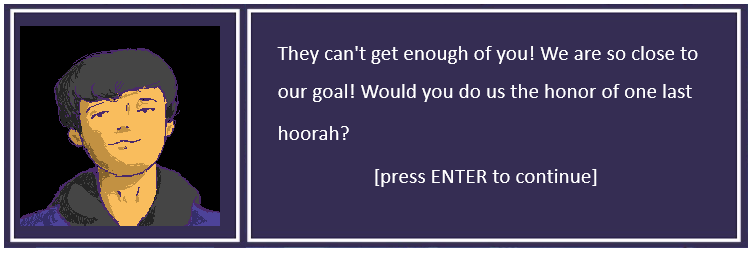
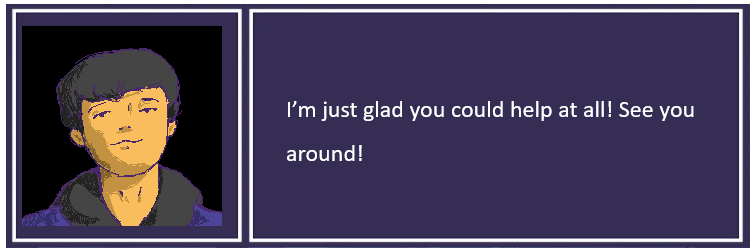
runningdialogue

diff --git a/dialoge.js b/dialoge.js
@@ -3,6 +3,7 @@ let imgCounter = 1;
 function firstDialogue() {
    /*  debugger; */
         if ( imgCounter >5) {
+            debugger;
             context.clearRect(25, 313,450, 147);
             return
         }
@@ -17,24 +18,22 @@ function firstDialogue() {
 }
 
 function secondDialogue() {
-    imgCounter = 6;
     console.log('inside dialogue 2');
-    if ( imgCounter >9) {
+    if ( imgCounter > 10) {
         context.clearRect(25, 313,450, 147);
         return
     }
     else {
         const image = new Image();
-        image.src = `/Dialogues/D${imgCounter}.PNG`
-        image.addEventListener("load", () => {
-            context.drawImage(image,25,313,450,147);
-        })
+            image.src = `/Dialogues/D${imgCounter}.PNG`
+            image.addEventListener("load", () => {
+                context.drawImage(image,25,313,450,147);
+            })
     }
 }
 
 function thirdDialogue() {
-    imgCounter =10;
-    if ( imgCounter >13) {
+    if ( imgCounter >15) {
         context.clearRect(25, 313,450, 147);
         return
     }
@@ -53,15 +52,13 @@ document.addEventListener(`keydown`, (e) => {
     
     if (e.key == "Enter") {
         imgCounter ++;
-        firstDialogue(imgCounter);
-    }
-    else if(e.key.toLowerCase() == "y") {
-        imgCounter ++;
-        firstDialogue(imgCounter);
-    }
-    else if (e.key.toLowerCase() == "n"){
-        imgCounter +=2;
-        firstDialogue(imgCounter);
+        if (imgCounter <= 6 && isFirstDialog) {
+            firstDialogue(imgCounter);
+        } else if (imgCounter >= 7 && imgCounter < 11 && isSecondDialog) {
+            secondDialogue(imgCounter);
+        } else if (imgCounter >=12 && imgCounter < 16 && isThirdDialog) {
+            thirdDialogue(imgCounter);
+        }
     }
 }
 )

diff --git a/game.js b/game.js
@@ -29,6 +29,9 @@ const game = {
 
 const girl = new Girl(50,400,50,100);
 let talking = 0;
+let isFirstDialog = false;
+let isSecondDialog = false;
+let isThirdDialog = false;
 
 
 document.addEventListener(`keydown`, (e)=> {
@@ -119,19 +122,26 @@ document.addEventListener(`keydown`, (e)=> {
     if (e.key == " " && boy.contact(girl)) {
         switch(talking) {
             case 0: 
+                isFirstDialog = true;
                 firstDialogue();
                 talking ++;
                 
                         break;
             case 1: 
             console.log("second dialogue")
-                secondDialogue();
-                talking ++;
+            isSecondDialog = true;
+            imgCounter++;
+            secondDialogue();
+            context.clearRect(25, 313,450, 147)
+            talking ++;
                 
                
                         break;
             case 2: 
+            isThirdDialog = true;
+                imgCounter++;
                 thirdDialogue();
+                context.clearRect(25, 313,450, 147)
                 talking ++;
                
 
